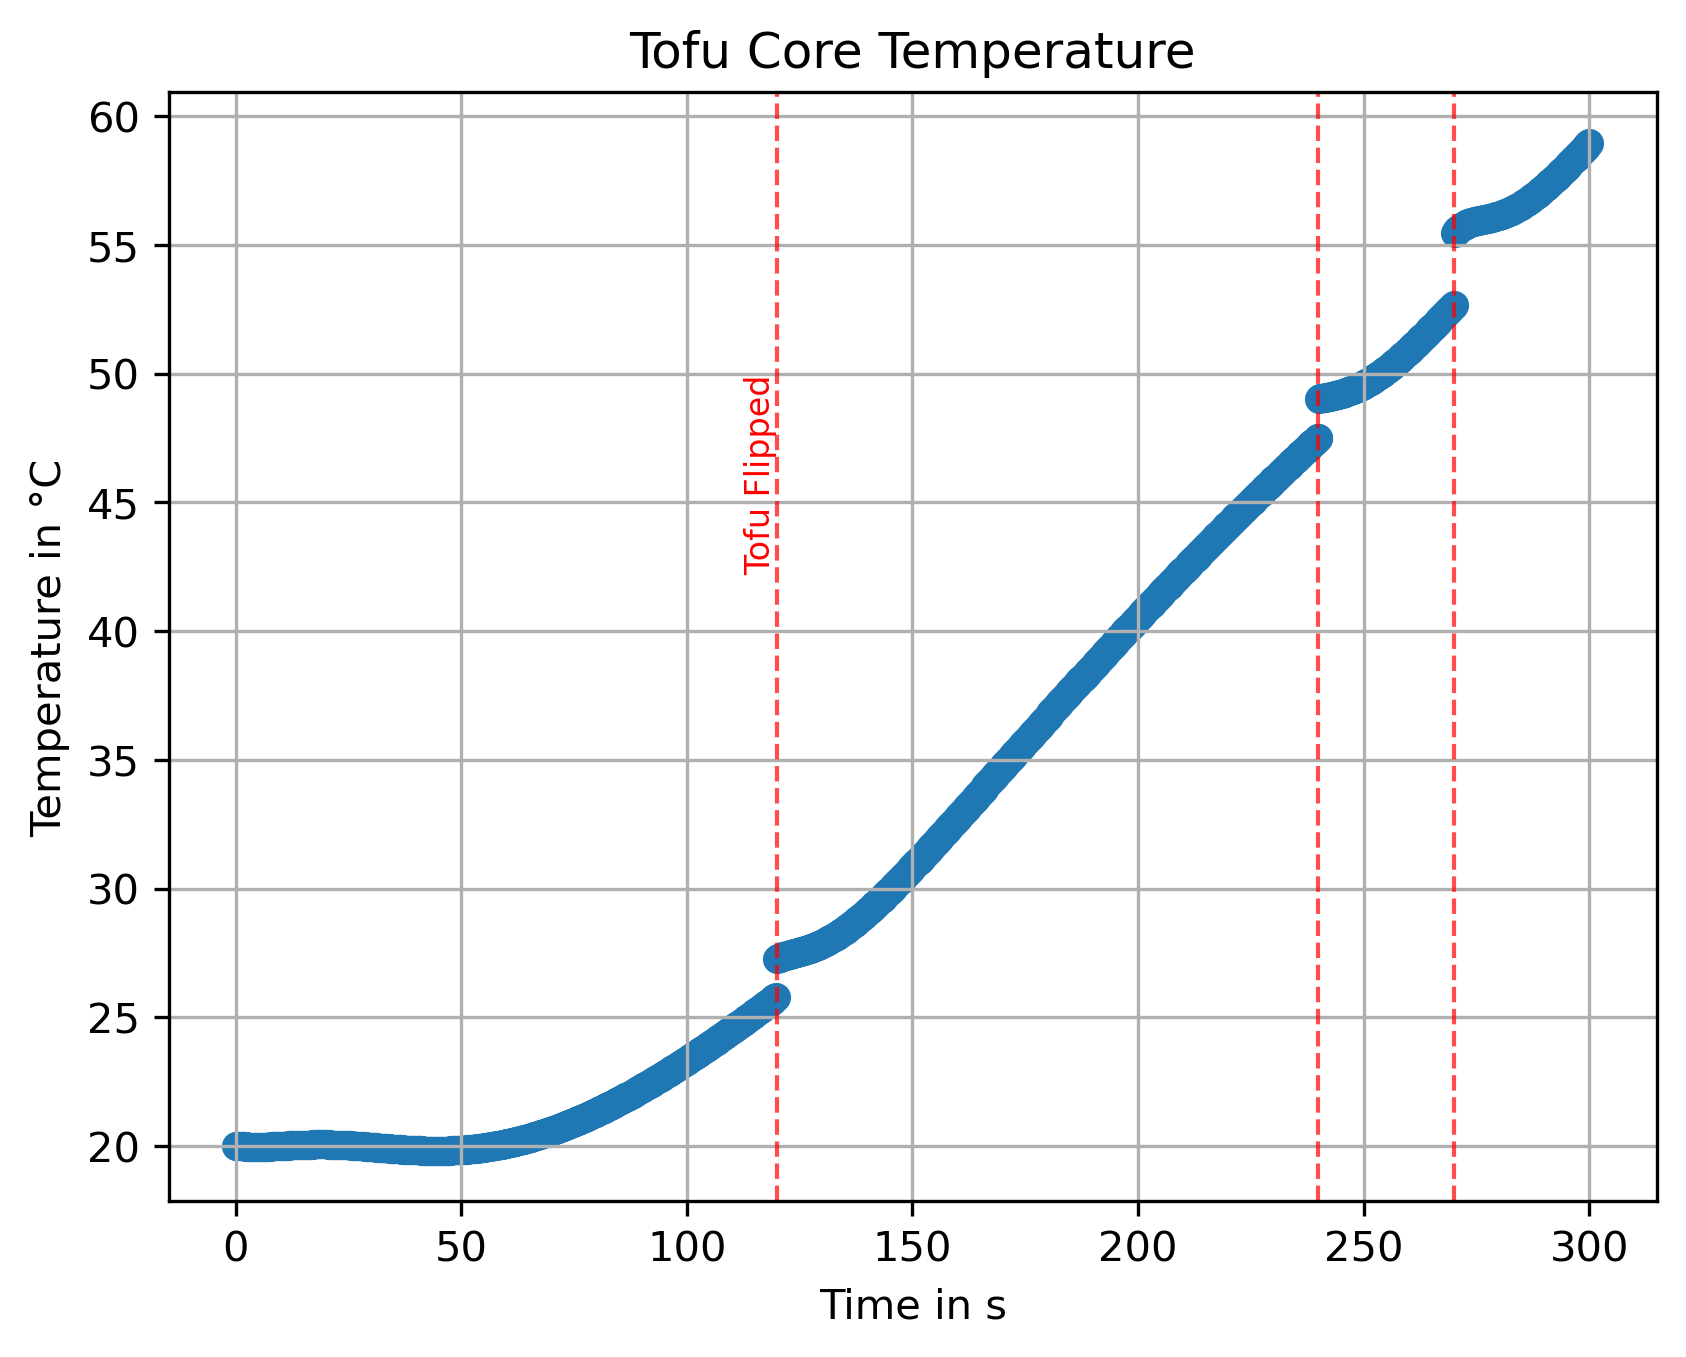
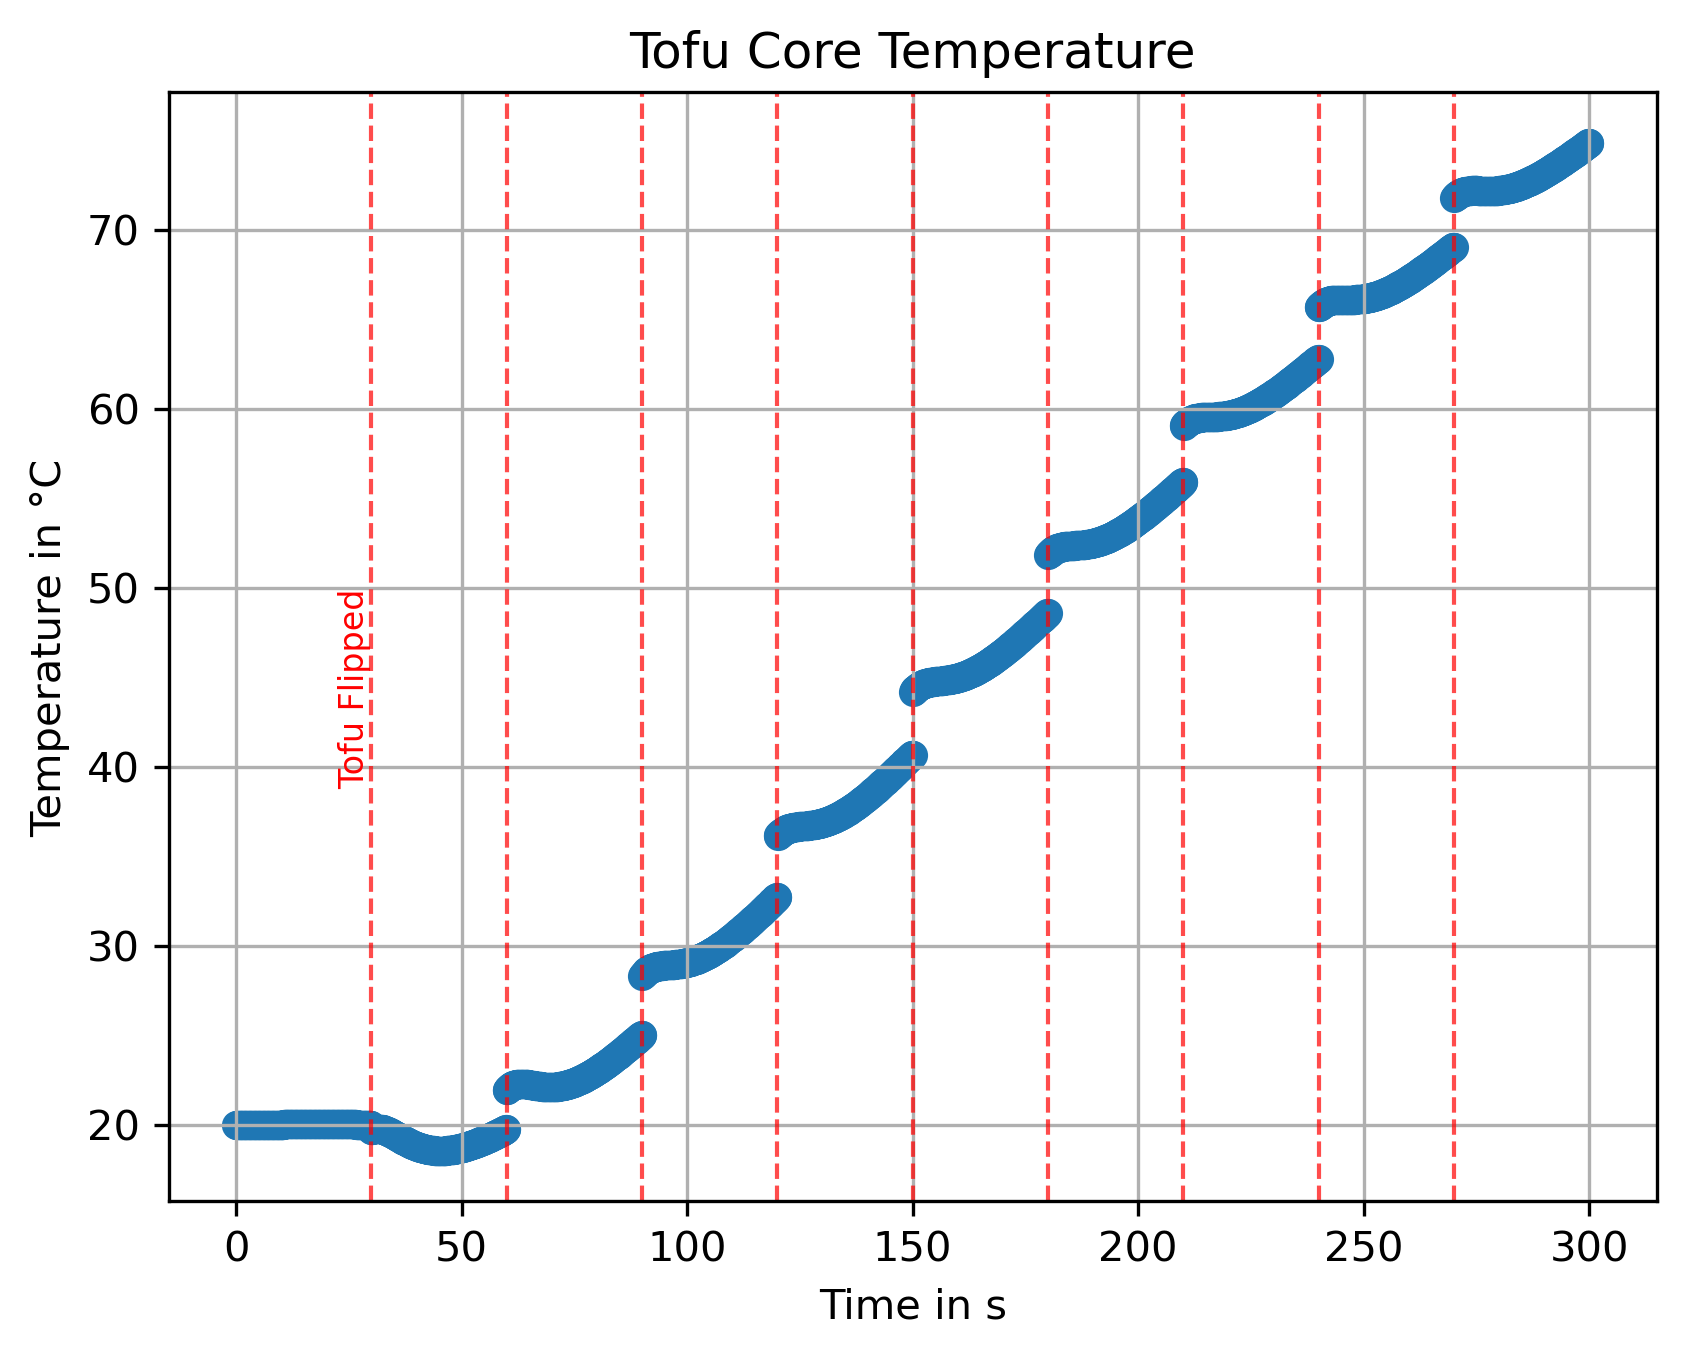
last polishes to example and readme

diff --git a/README.md b/README.md
@@ -3,7 +3,7 @@ Heat diffusion simulation is a pet project programmed in Python to simulate the 
 
 An example core temperature graph would be:
 ![Temperature vs. Time](results/Core_temp.png)
-Showing that the tofu heats to roughly 60°C core temperature within 5 minutes.
+Showing that the tofu heats to roughly 80°C core temperature within 5 minutes under almost constant flipping.
 
 # Usage
 The project includes a Variational_Problem class which can be modified by passing different boundary and starting conditions and different weak forms. It should be capable to solve multiple time-dependent linear PDEs, not only the heat equation, although proper support for this is still to be implemented, as well as for non-linear PDEs. The Program further features the option to insert special operations on the variational problem (like flipping the tofu) at any time step. Further a clean way to define different constants on the different sub-domains of the mesh is included. This offers a clean and fast way to answer the tofu question or similar problems you might encounter.
@@ -34,11 +34,11 @@ An working virtual environment will maybe implemented in the future
 You can find an example on how to use this script in the notebook already where the simulation is run for the piece of tofu and the core temperature is plotted.
 
 # Limitations and Future
-As mentioned above this simulation falls short of giving a physically accurate simulation of the tofu by lack of latent heat. There are 2 options to change this: introduce a moisture field and track the exact moisture content through coupled PDEs, or introduce an additional term to the heat capacity to effectively model latent heat. Both approaches have different advantages and drawbacks, which i will outline shortly
+The simulation seems to have some numerical artifacts. Since a very large volume with wildly different heat conductivities and capacities is modeled, the model seems to be somewhat unstable at the boundary between pan and tofu, however fluctuations seem only a few degrees and get smaller the more the tofu heats up. This can be remidied by increasing pricision both in time and in space. However, both increases in precision (smaller elements or time steps) also greatly increase numerical cost, with the spacial resolution being especially bad. This could be remedied by either introducing a boundary region, in which material constants change more gradually. Further, as mentioned above this simulation falls short of giving a physically accurate simulation of the tofu by lack of latent heat. There are 2 options to change this: introduce a moisture field and track the exact moisture content through coupled PDEs, or introduce an additional term to the heat capacity to effectively model latent heat. Both approaches have different advantages and drawbacks, which i will outline shortly.
 ## Moisture Field
 Introducing a Moinsture field is the most accurate solution, however the internal architecture of the script does not allow coupled PDEs at this moment. Therefore this approach is unrealistic at this time but will be revisited in a later project.
 ## Apparent Latent Heat
-We can introduce a term to the heat capacity of the tofu that includes the latent heat and is only active for temperatures around the boiling point (~95-105°C). This would make sure, that the tofu would have to absorb the latent heat through an increased heat capacity whenever crossing the boiling point. However this system has 2 shortcomings: Firstly by flipping the tofu, regions that might have crossed the boiling point will cross it again, either releasing the latent heat into the environment when cooling back down or absorbing the latent heat twice when crossing the threshold again. To prevent this, we could include a mask, that only allows the latent heat term when a cell crosses the temperature for the first time. This would prevent the boiling of twice problem. Additionally this approach would also ignore the change in heat capacity and conductivity for the dried out tofu. Going forward this will be the most likely solution to this particular problem, as it is numerically cheap and the inaccuracy relatively small compared to the missing latent heat term.
+We can introduce a term to the heat capacity of the tofu that includes the latent heat and is only active for temperatures around the boiling point (~95-105°C). This would make sure, that the tofu would have to absorb the latent heat through an increased heat capacity whenever crossing the boiling point. However this system has 2 shortcomings: Firstly by flipping the tofu, regions that might have crossed the boiling point will cross it again, either releasing the latent heat into the environment when cooling back down or absorbing the latent heat twice when crossing the threshold again. To prevent this, we could include a mask, that only allows the latent heat term when a cell crosses the temperature for the first time. This would prevent the boiling of twice problem. Additionally this approach would also ignore the change in heat capacity and conductivity for the dried out tofu. Going forward this will be the most likely solution to this particular problem, as it is numerically cheap and the inaccuracy relatively small compared to the missing latent heat term. However this was not implemented yet, because it would also require a rework of how the constants are defined in this simulation (all constants separately instead of combining constants to compounded prefactors).
 
 # Acknowledgement
 I want to thank Jørgen S. Dokken for the very helpful tutorial on https://jsdokken.com/dolfinx-tutorial/.